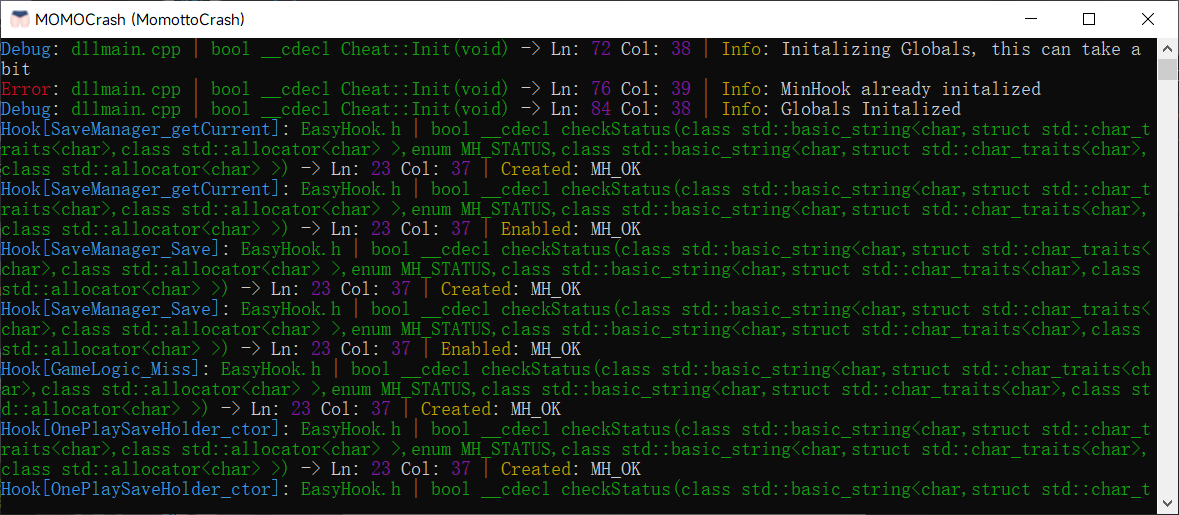
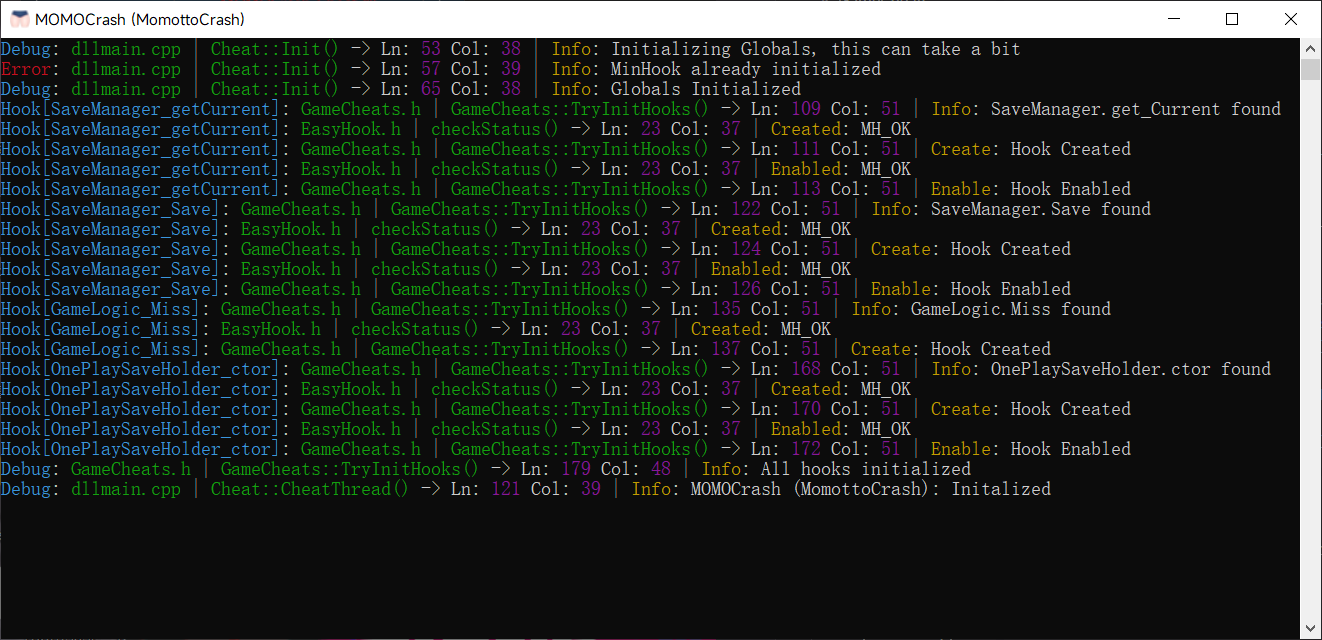
fix

diff --git a/Utils/Logging/Logging.cpp b/Utils/Logging/Logging.cpp
@@ -1,6 +1,19 @@
 #include "pch.h"
 
-// These functions might be ugly but they are used to make the console text look pretty and make debugging easier
+// Helper to simplify function name (extract just ClassName::FunctionName)
+static std::string SimplifyFunctionName(const std::string& fullName)
+{
+	// Find the last "::" before "(" to get ClassName::FunctionName
+	size_t parenPos = fullName.find('(');
+	std::string beforeParen = (parenPos != std::string::npos) ? fullName.substr(0, parenPos) : fullName;
+	
+	// Find last space (before the actual function name part)
+	size_t lastSpace = beforeParen.rfind(' ');
+	if (lastSpace != std::string::npos)
+		beforeParen = beforeParen.substr(lastSpace + 1);
+	
+	return beforeParen + "()";
+}
 
 Utils::Location Utils::GetLocation(std::source_location stLocation)
 {
@@ -11,11 +24,9 @@ void Utils::LogHook(Location stLocation, std::string sHookName, std::string sRea
 {
 	// Hook[HookName]: Filename | Function() -> Ln: 1 Col: 1 | Reason: Message
 	std::cout << colors::cyan << "Hook[" << sHookName << "]" << colors::white << ": ";
-
-	std::cout << colors::green << stLocation.m_sFilename << colors::white << " | " << colors::green << stLocation.m_sFunction << colors::white;
-
+	std::cout << colors::green << stLocation.m_sFilename << colors::white << " | ";
+	std::cout << colors::green << SimplifyFunctionName(stLocation.m_sFunction) << colors::white;
 	std::cout << " -> Ln: " << colors::magenta << stLocation.m_iLine << colors::white << " Col: " << colors::magenta << stLocation.m_iColumn << colors::white;
-
 	std::cout << " | " << colors::yellow << sReason << colors::white << ": " << sMessage << std::endl;
 }
 
@@ -23,11 +34,9 @@ void Utils::LogError(Location stLocation, int iErrorCode)
 {
 	// Error: Filename | Function() -> Ln: 1 Col: 1 | Info: Message
 	std::cout << colors::red << "Error" << colors::white << ": ";
-
-	std::cout << colors::green << stLocation.m_sFilename << colors::white << " | " << colors::green << stLocation.m_sFunction << colors::white;
-
+	std::cout << colors::green << stLocation.m_sFilename << colors::white << " | ";
+	std::cout << colors::green << SimplifyFunctionName(stLocation.m_sFunction) << colors::white;
 	std::cout << " -> Ln: " << colors::magenta << stLocation.m_iLine << colors::white << " Col: " << colors::magenta << stLocation.m_iColumn << colors::white;
-
 	std::cout << " | " << colors::yellow << "Info" << colors::white << ": " << std::system_category().message(iErrorCode) << std::endl;
 }
 
@@ -35,11 +44,9 @@ void Utils::LogError(Location stLocation, std::string sErrorMessage)
 {
 	// Error: Filename | Function() -> Ln: 1 Col: 1 | Info: Message
 	std::cout << colors::red << "Error" << colors::white << ": ";
-
-	std::cout << colors::green << stLocation.m_sFilename << colors::white << " | " << colors::green << stLocation.m_sFunction << colors::white;
-
+	std::cout << colors::green << stLocation.m_sFilename << colors::white << " | ";
+	std::cout << colors::green << SimplifyFunctionName(stLocation.m_sFunction) << colors::white;
 	std::cout << " -> Ln: " << colors::magenta << stLocation.m_iLine << colors::white << " Col: " << colors::magenta << stLocation.m_iColumn << colors::white;
-
 	std::cout << " | " << colors::yellow << "Info" << colors::white << ": " << sErrorMessage << std::endl;
 }
 
@@ -47,10 +54,8 @@ void Utils::LogDebug(Location stLocation, std::string sDebugMessage)
 {
 	// Debug: Filename | Function() -> Ln: 1 Col: 1 | Info: Message
 	std::cout << colors::cyan << "Debug" << colors::white << ": ";
-
-	std::cout << colors::green << stLocation.m_sFilename << colors::white << " | " << colors::green << stLocation.m_sFunction << colors::white;
-
+	std::cout << colors::green << stLocation.m_sFilename << colors::white << " | ";
+	std::cout << colors::green << SimplifyFunctionName(stLocation.m_sFunction) << colors::white;
 	std::cout << " -> Ln: " << colors::magenta << stLocation.m_iLine << colors::white << " Col: " << colors::magenta << stLocation.m_iColumn << colors::white;
-
 	std::cout << " | " << colors::yellow << "Info" << colors::white << ": " << sDebugMessage << std::endl;
 }

diff --git a/Interfaces/EasyHook.h b/Interfaces/EasyHook.h
@@ -18,14 +18,18 @@
 
 inline bool checkStatus(std::string name, MH_STATUS status, std::string reason)
 {
-	if (status == MH_OK || status == MH_ERROR_ALREADY_CREATED || status == MH_ERROR_ALREADY_INITIALIZED)
+    if (status != MH_ERROR_ALREADY_CREATED && status != MH_ERROR_ALREADY_INITIALIZED)
+        return true;
+
+	if (status != MH_OK)
 	{
-		Utils::LogHook(Utils::GetLocation(CurrentLoc), name, reason, MH_StatusToString(status));
-		return true;
+		Utils::LogHook(Utils::GetLocation(CurrentLoc), name, "Error", MH_StatusToString(status));
+		return false;
 	}
-	
-	Utils::LogHook(Utils::GetLocation(CurrentLoc), name, "Error", MH_StatusToString(status));
-	return false;
+    else
+        Utils::LogHook(Utils::GetLocation(CurrentLoc), name, reason, MH_StatusToString(status));
+
+	return true;
 }
 
 /* Example:

diff --git a/GUI/GUI.h b/GUI/GUI.h
@@ -17,7 +17,7 @@ inline ImU32 Magenta = ImGui::ColorConvertFloat4ToU32({ 1.f, 0.f, 1.f, 1.f });
 
 namespace GUI
 {
-	inline bool bMenuOpen = true; // Default to open for testing
+	inline bool bMenuOpen = false;
 	constexpr float WIDTH = 850;
 	constexpr float HEIGHT = 600;
 
